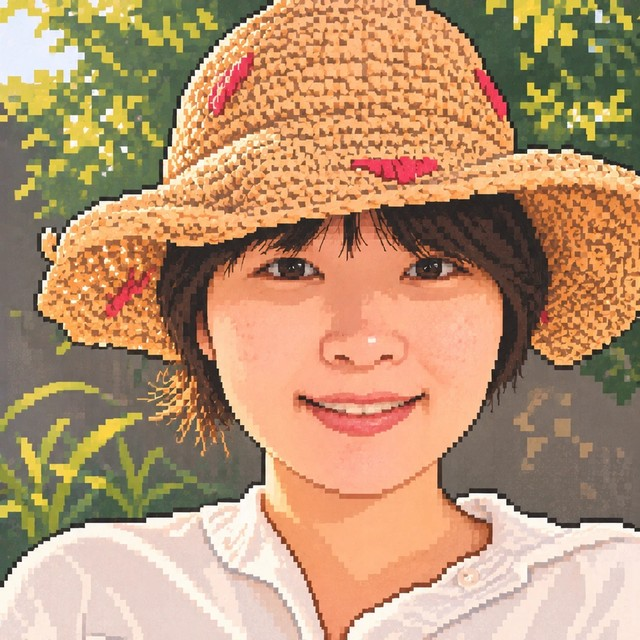
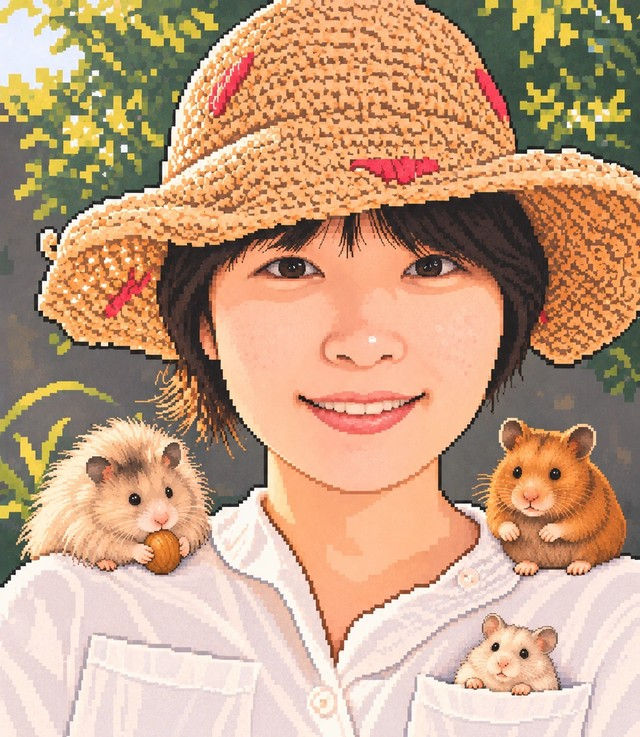
Use pixel-art portrait with three hamsters
Crops slightly taller than square so the pocket hamster stays in frame.

Claude-Session: https://claude.ai/code/session_01SjzU3R4CUMXpBKj8zX4q5r

diff --git a/css/pixel.css b/css/pixel.css
@@ -100,7 +100,7 @@ section { margin-bottom: 44px; }
 .hero .p-scope { grid-area: scope; }
 .hero .p-stats { grid-area: stats; }
 
-.avatar { display: block; width: 160px; height: 160px; object-fit: cover; margin: 4px auto 10px; border: 1.5px solid var(--line); background: #fff; }
+.avatar { display: block; width: 160px; height: 184px; object-fit: cover; margin: 4px auto 10px; border: 1.5px solid var(--line); background: #fff; }
 .player { font-family: var(--label); font-size: 12px; color: var(--pink-ink); }
 
 .p-about h1 {

diff --git a/index.html b/index.html
@@ -39,7 +39,7 @@
     <section id="about" class="hero">
       <div class="panel p-avatar">
         <div class="panel-label"><span>Player</span><span class="hot">P1</span></div>
-        <img class="avatar" src="img/isabel-portrait.jpg" alt="Pixel-art portrait of Isabel Chen" width="160" height="160">
+        <img class="avatar" src="img/isabel-portrait.jpg" alt="Pixel-art portrait of Isabel Chen with her three hamsters" width="160" height="184">
         <span class="player">♥ READY</span>
       </div>
 
